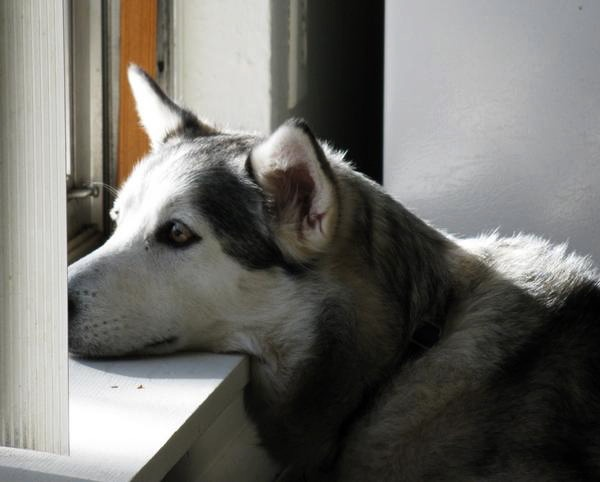
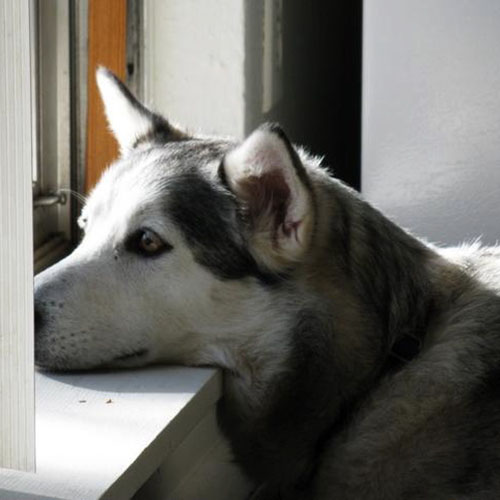
Adjusted pic sizes. Added controls and indicators.

diff --git a/index.html b/index.html
@@ -22,6 +22,17 @@
     <!--Image Carousel-->
     <div id="daisy-pics" class="carousel slide" data-ride="carousel">
 
+         <!-- Indicators -->
+        <ul class="carousel-indicators">
+            <li data-target="#daisy-pics" data-slide-to="0" class="active"></li>
+            <li data-target="#daisy-pics" data-slide-to="1"></li>
+            <li data-target="#daisy-pics" data-slide-to="2"></li>
+            <li data-target="#daisy-pics" data-slide-to="3"></li>
+            <li data-target="#daisy-pics" data-slide-to="4"></li>
+            <li data-target="#daisy-pics" data-slide-to="5"></li>
+            <li data-target="#daisy-pics" data-slide-to="6"></li>
+        </ul>
+
         <!--Slideshow-->
         <div class="carousel-inner">
             <div class="carousel-item active">
@@ -46,6 +57,14 @@
                 <img src="img/7.jpg" class="d-block w-100" alt="Daisy">
             </div>
         </div>
+
+          <!-- Left and right controls -->
+            <a class="carousel-control-prev" href="#daisy-pics" data-slide="prev">
+                <span class="carousel-control-prev-icon"></span>
+            </a>
+            <a class="carousel-control-next" href="#daisy-pics" data-slide="next">
+                <span class="carousel-control-next-icon"></span>
+            </a>
 
     </div>
 

diff --git a/css/main.css b/css/main.css
@@ -1,6 +1,6 @@
 .carousel-inner img {
     width: 100%;
-    max-width:25%;
+    max-width:500px;
     height: 100%;
     display:block;
     margin:auto;
